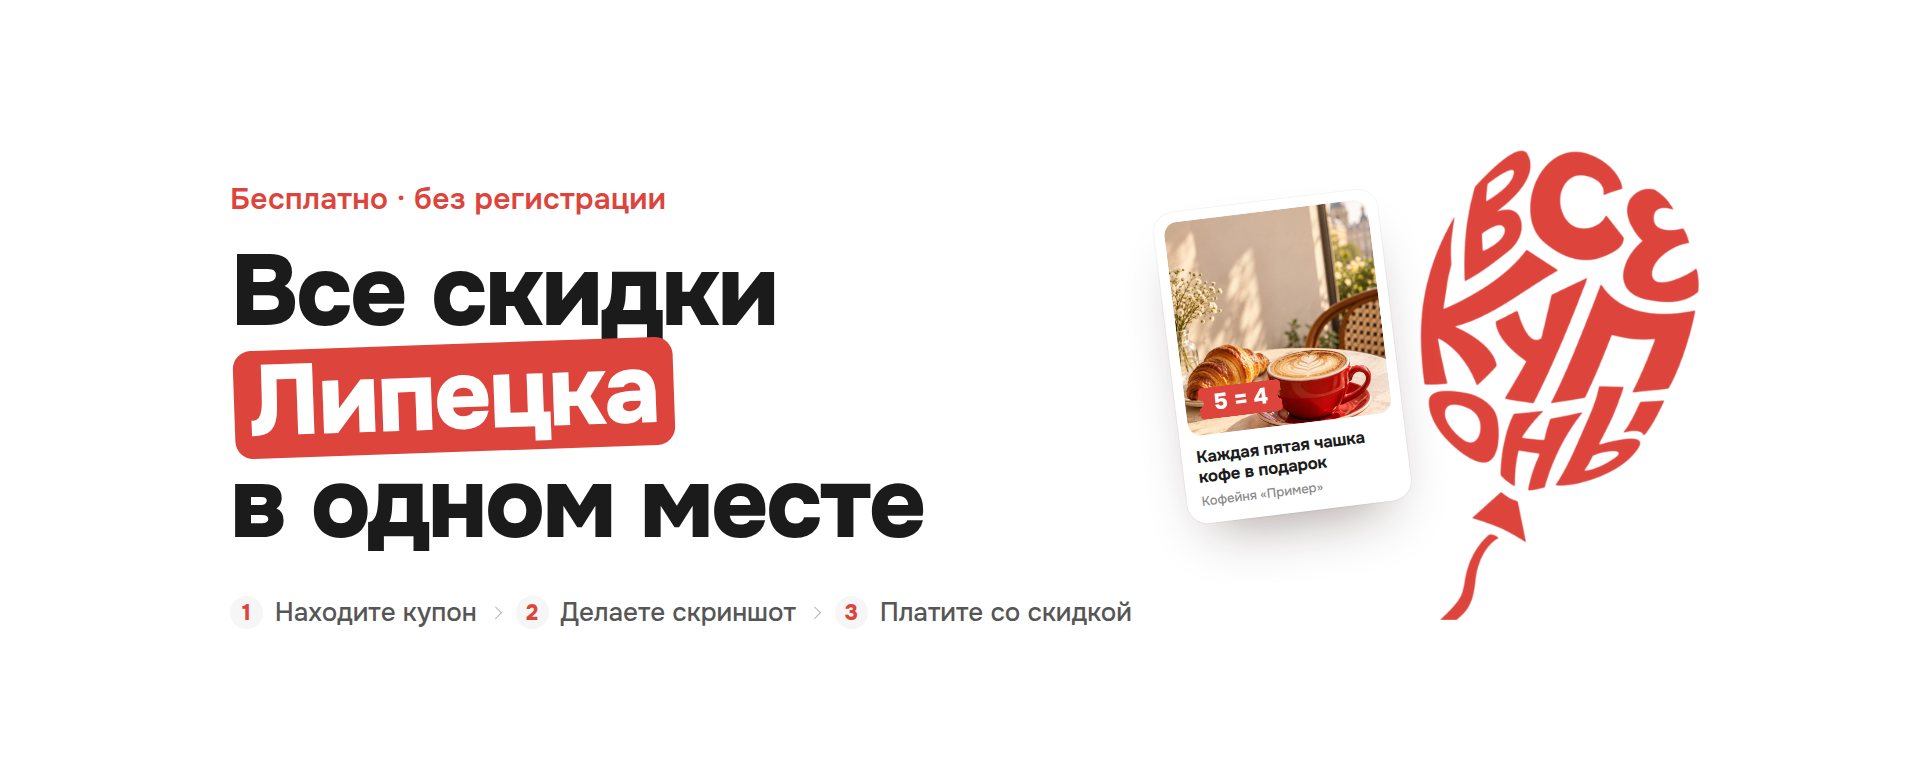
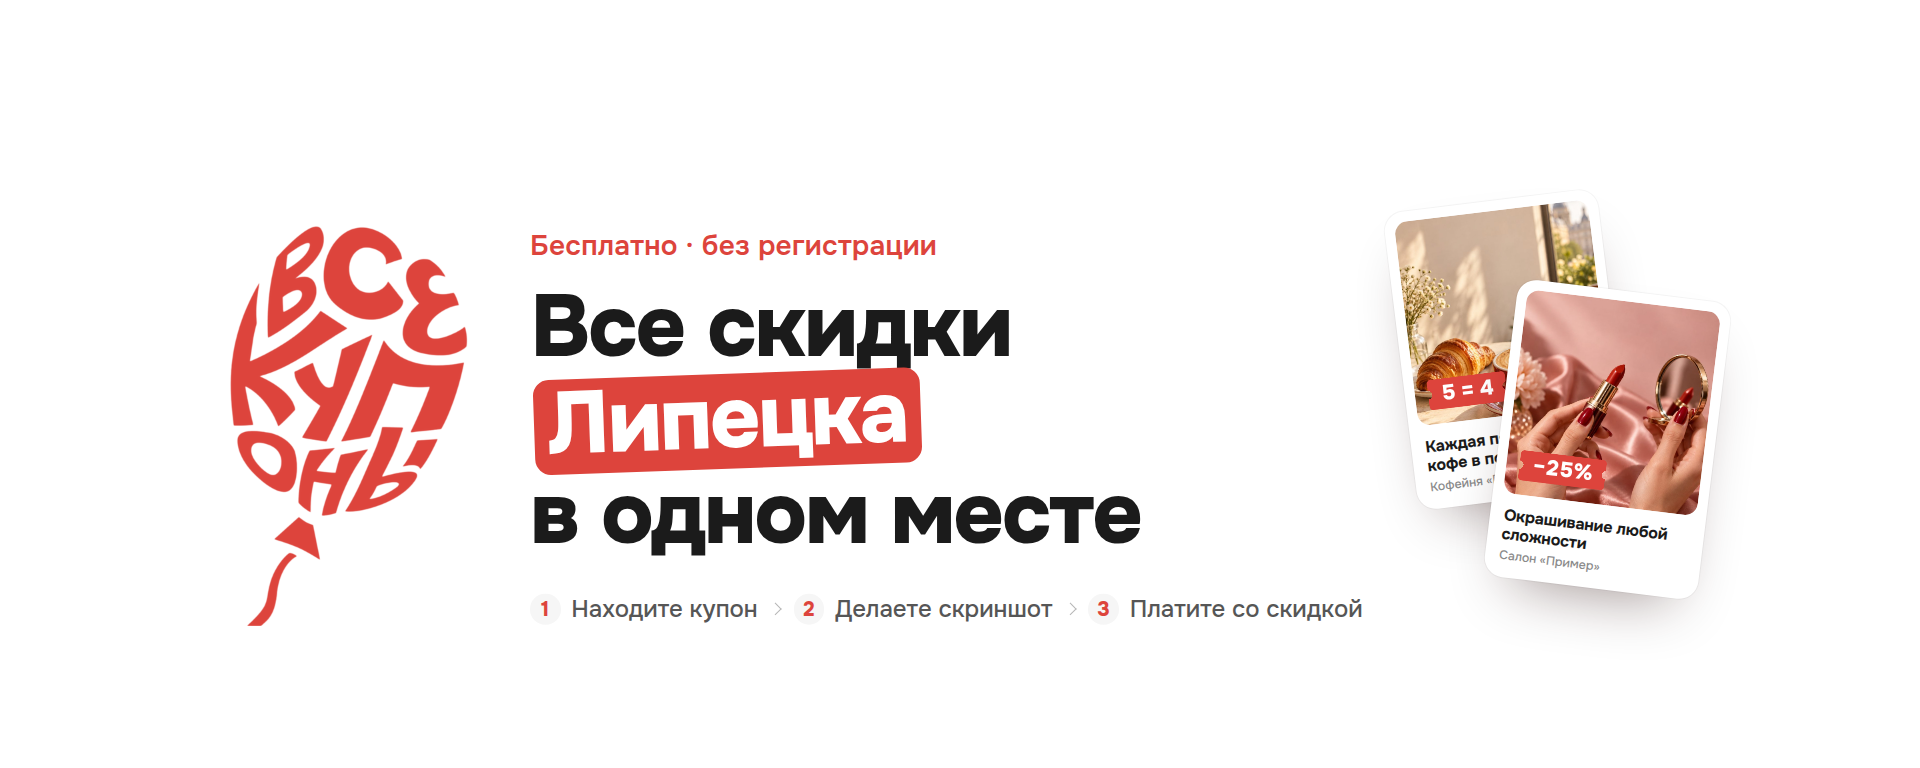
Обложка ВК: логотип слева от текста, справа снова две карточки
Claude-Session: https://claude.ai/code/session_01WnNNihAkFyEG8CvwvMrpgQ

Changed region(s): [[0.125, 0.25, 0.7188, 0.8125], [0.5938, 0.1875, 0.9062, 0.8125]]

diff --git a/social-kit/kit.css b/social-kit/kit.css
@@ -149,16 +149,16 @@ body{
    Сверху ~85 px закрывает меню ВК, на телефоне по ~200 px режется с
    боков: весь смысл — в средней полосе. */
 .vk-cover{width:1920px;height:768px}
-.vk-cover .txt{position:absolute;left:230px;top:180px;width:1000px}
-.vk-cover .eyebrow{font-size:30px}
-.vk-cover .h1{margin-top:22px;font-size:100px}
-.vk-cover .steps{margin-top:40px;font-size:26px}
-.vk-cover .art-r{position:absolute;left:1170px;top:0;width:540px;height:768px}
-/* Логотип целиком, карточка рядом без нахлёста (правка 03.10) */
-/* Логотип без наклона (правка 03.10): знак стоит как в исходнике */
-.vk-cover .logo{position:absolute;left:250px;top:150px;height:470px}
-.vk-cover .card--1{--w:225px;--r:-7deg;left:0;top:200px}
-.vk-cover .card--2{display:none}
+/* Раскладка (правка 03.10): шар слева, текст, справа две карточки.
+   Всё по центру видимой высоты: от 85 px (под меню ВК) до низа. */
+.vk-cover .logo{position:absolute;left:230px;top:426px;height:400px;transform:translateY(-50%)}
+.vk-cover .txt{position:absolute;left:530px;top:426px;width:780px;transform:translateY(-50%)}
+.vk-cover .eyebrow{font-size:28px}
+.vk-cover .h1{margin-top:18px;font-size:88px}
+.vk-cover .steps{margin-top:34px;font-size:24px}
+.vk-cover .art-r{position:absolute;left:1400px;top:0;width:330px;height:768px}
+.vk-cover .card--1{--w:215px;--r:-7deg;left:0;top:200px}
+.vk-cover .card--2{--w:215px;--r:7deg;left:100px;top:290px}
 
 /* --------------------------------------------------------------------------
    ВК — живая обложка 1080×1920 (мобильная)

diff --git a/social-kit/index.html b/social-kit/index.html
@@ -28,13 +28,13 @@
     <div class="row">
       <figure class="slot"><figcaption><b>Обложка сообщества</b> 1920×768</figcaption>
         <div class="fit"><div class="art vk-cover" id="vk-cover" data-out="vk/vk-cover-1920x768">
+          <img class="logo" src="../assets/brand/logo-red.png" alt="">
           <div class="txt">
             <div class="eyebrow">Бесплатно · без регистрации</div>
             <h1 class="h1">Все скидки <span class="city" data-city>Липецка</span><br>в одном месте</h1>
             <ol class="steps"><li><b>1</b>Находите купон</li><li><b>2</b>Делаете скриншот</li><li><b>3</b>Платите со скидкой</li></ol>
           </div>
           <div class="art-r">
-            <img class="logo" src="../assets/brand/logo-red.png" alt="">
             <div class="card card--1" data-card="coffee"></div>
             <div class="card card--2" data-card="beauty"></div>
           </div>
